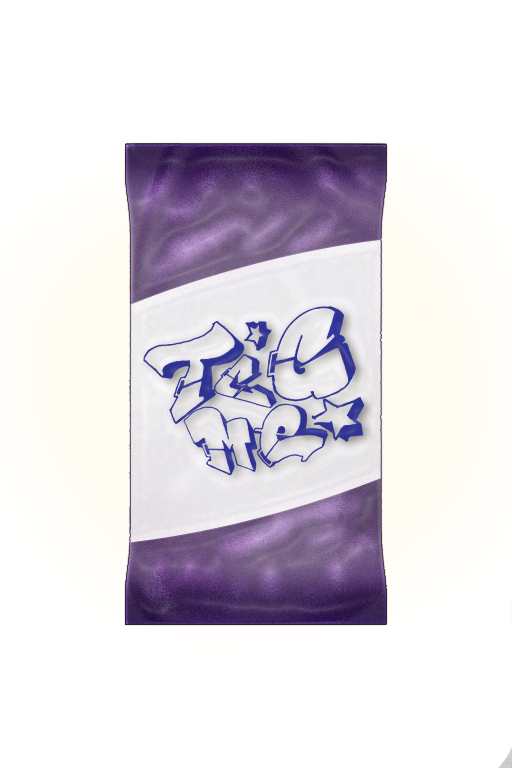
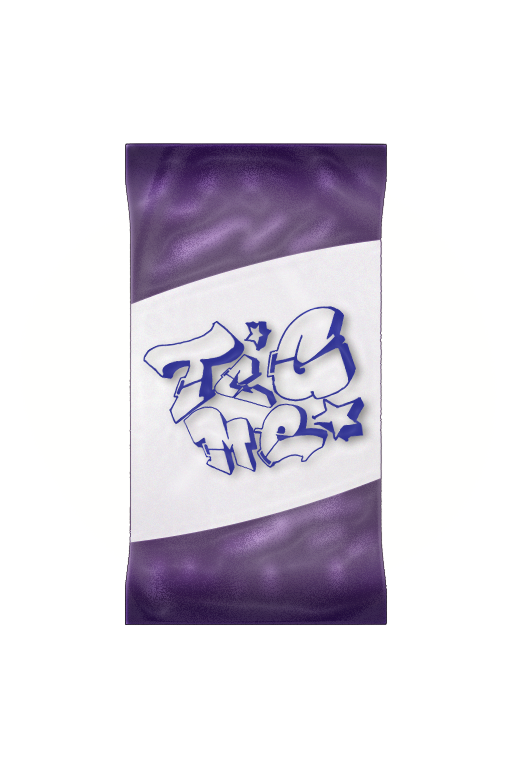
added new background

diff --git a/mobile/HomeScreen.js b/mobile/HomeScreen.js
@@ -24,7 +24,7 @@ import InteractiveCard from './InteractiveCard';
 
 
 const packImage = require('./assets/images/CardPack.png');
-const rainbowEffect = require('./assets/lottie_animations/rainbow_gradient.json');
+const background = require('./assets/lottie_animations/backgroundgradient.json');
 const packShine = require('./assets/lottie_animations/packCover.json');
 const { height: screenHeight, width: screenWidth } = Dimensions.get('window');
 
@@ -289,7 +289,16 @@ return (
   
   <View style={styles.container}>
 
-    <BackgroundSVG style ={{position: 'absolute', width: '200%', height: '100%' }}> </BackgroundSVG>
+    <LottieView
+      source={background}
+            autoPlay
+            loop
+            speed={0.5}
+            style={{width: '150%',
+                    height: '150%',
+                    position: "absolute",
+                  }}>
+    </LottieView>
 
 
     {packOpening && (
@@ -305,6 +314,10 @@ return (
             alignSelf: 'center',
             resizeMode: 'contain',
             position: "absolute",
+            shadowColor: 'black',
+            shadowOffset: 20,
+            shadowRadius: 10,
+            shadowOpacity: 10,
           }}
           />
 
@@ -312,7 +325,7 @@ return (
             source={packShine}
             autoPlay
             loop
-            speed={0.5}
+            speed={.8}
             style={{width: '150%',
                     height: '150%',
                     alignSelf: 'center',

diff --git a/mobile/CollectionScreen.js b/mobile/CollectionScreen.js
@@ -103,7 +103,11 @@ const styles = StyleSheet.create({
     elevation: 2,
     overflow: 'hidden',
     borderColor: 'grey',
-    borderWidth: 2,
+    borderWidth:2,
+    shadowColor: 'black',
+    shadowOffset: 10,
+    shadowOpacity: 10,
+    shadowRadius: 20,
   },
   image: {
     width: '90%',
@@ -184,6 +188,7 @@ const styles = StyleSheet.create({
     height: '200%',
     position: 'absolute',
     overflow: 'hidden'
+    
   },
 
 });

diff --git a/backend/obj/Debug/net8.0/backend.AssemblyInfo.cs b/backend/obj/Debug/net8.0/backend.AssemblyInfo.cs
@@ -14,7 +14,7 @@ using System.Reflection;
 [assembly: System.Reflection.AssemblyCompanyAttribute("backend")]
 [assembly: System.Reflection.AssemblyConfigurationAttribute("Debug")]
 [assembly: System.Reflection.AssemblyFileVersionAttribute("1.0.0.0")]
-[assembly: System.Reflection.AssemblyInformationalVersionAttribute("1.0.0+4f86e80d62bf811793b32133a14ec23ba821d6f0")]
+[assembly: System.Reflection.AssemblyInformationalVersionAttribute("1.0.0+4021a0857621653eec942039b1acc791ecce534e")]
 [assembly: System.Reflection.AssemblyProductAttribute("backend")]
 [assembly: System.Reflection.AssemblyTitleAttribute("backend")]
 [assembly: System.Reflection.AssemblyVersionAttribute("1.0.0.0")]
